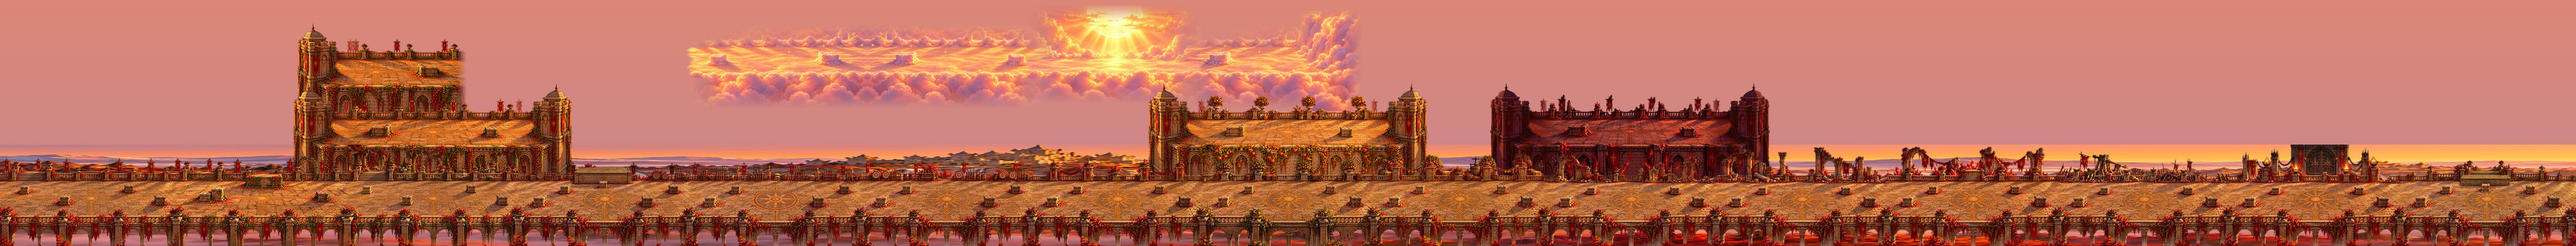
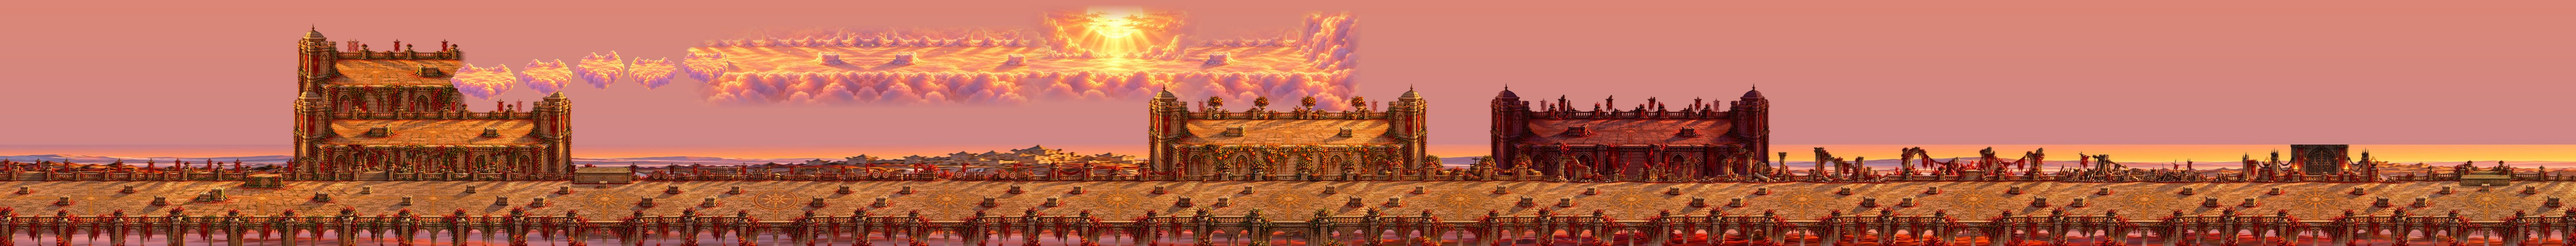
Minimap: the Sky Path's clouds drawn in
Claude-Session: https://claude.ai/code/session_01L1uDDec2PRhRRuGiNU2YTw

Changed region(s): [[0.1562, 0.2088, 0.2811, 0.3877]]

diff --git a/tools/world/minimap.py b/tools/world/minimap.py
@@ -39,6 +39,15 @@ for h in sorted(H, key=lambda h: h.get('depth', -1.2)):
         part = np.asarray(alpha)[a0 - oy:a1 - oy, x:x + im.width] / 255
         st[a0 - sy0:a1 - sy0, :part.shape[1]] = part
     out.paste(im.convert('RGB'), (x, y), Image.fromarray((m * (1 - st) * 255).astype(np.uint8)))
+# the Sky Path's clouds (clouds.py), drawn as in the game (OpenWorld.buildSky)
+C = json.load(open(R + 'src/data/world-clouds.json')); b0, b1 = C['band']
+for c in C['path']:
+    sp = C['sprites'][c['s']]; im = Image.open(R + 'public/' + sp['img']).convert('RGBA')
+    sc = (c['x'][1] - c['x'][0] + 40) / sp['w']; sy = min(max((b1 - b0) / max(1, (sp['top'][1] - sp['top'][0]) * sc), 1), 1.7) * sc
+    y = b0 - c['z'] - sp['top'][0] * sy
+    if c.get('flip'): im = im.transpose(Image.FLIP_LEFT_RIGHT)
+    im = im.resize((max(1, round(sp['w'] * sc / K)), max(1, round(sp['h'] * sy / K))), Image.LANCZOS)
+    out.paste(im.convert('RGB'), (round((c['x'][0] - 20) / K), round((y - TOP) / K)), im.getchannel('A'))
 out.save(A + 'minimap/world_up.jpg', quality=82)
 open(R + 'src/data/world-minimap.json', 'w').write(json.dumps({'top': TOP, 'scale': K}) + '\n')
 print('minimap', out.size, 'top', TOP)
